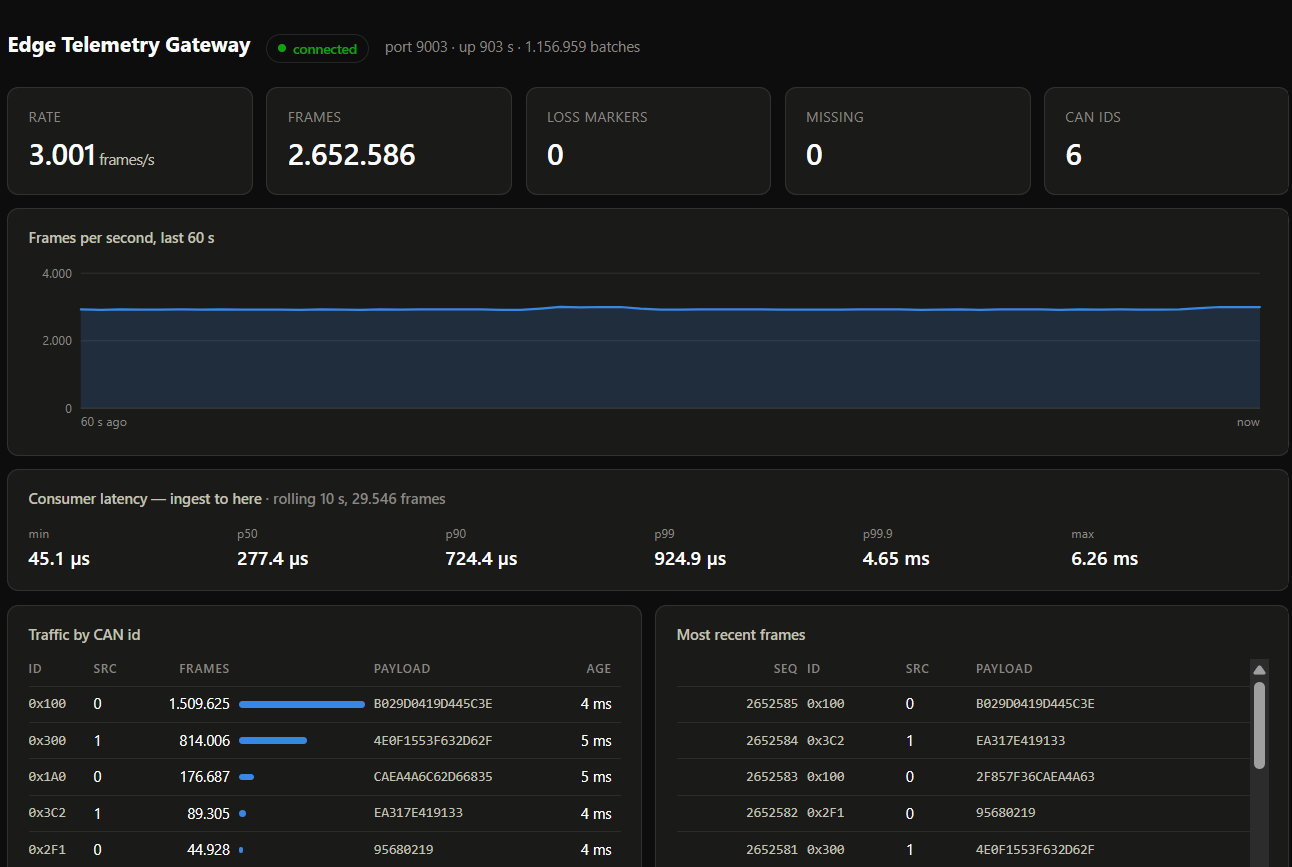
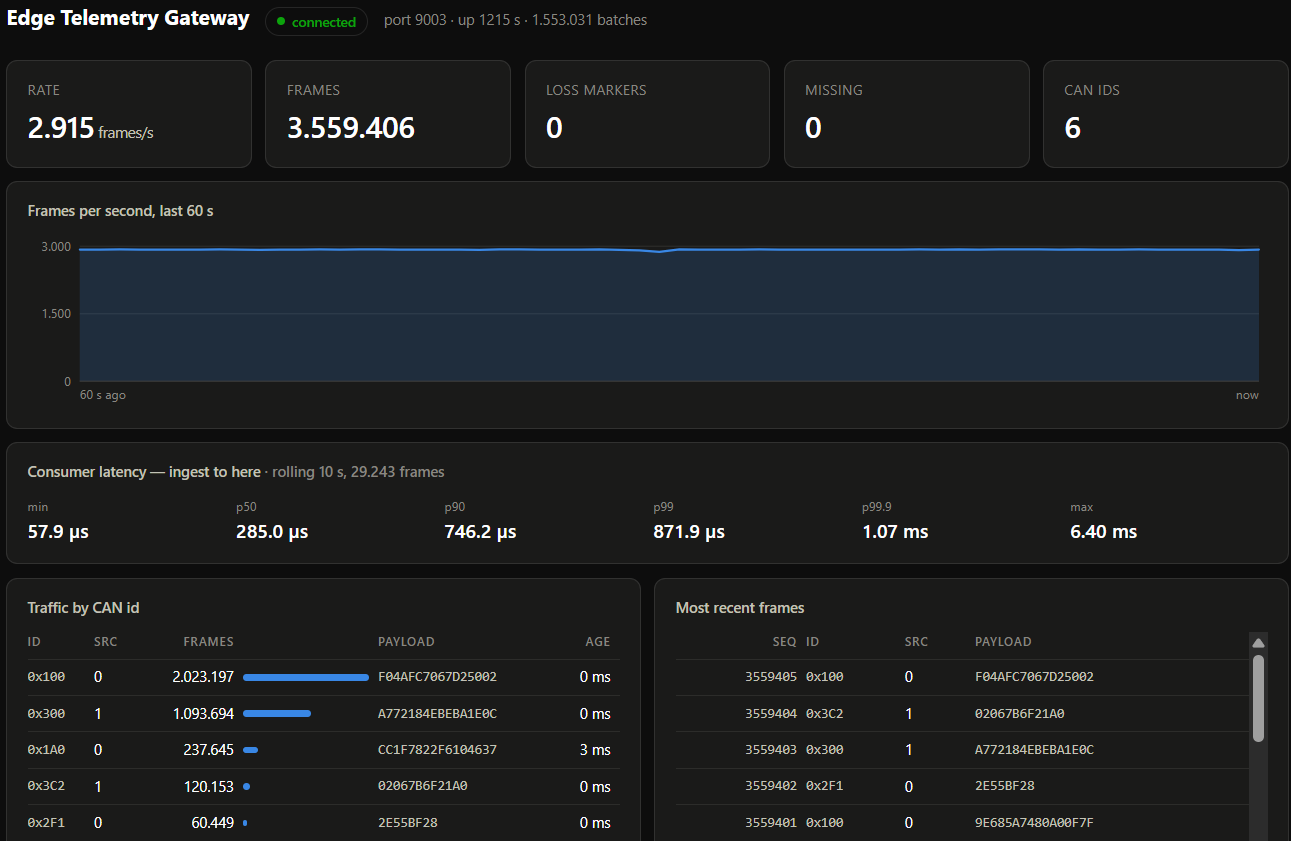
Replace the live-view screenshot taken before the view was fixed
The old capture showed p99.9 of 4.65 ms on its latency card. That figure was
the view sorting its rolling window inside the lock the frame loop needs, twice
a second for every open browser -- the same mistake as the probe's, bounded
rather than growing. results/ documents it as such, so the picture was
asserting a number the text next to it retracts.

The new capture reads 1.07 ms at p99.9 from the same pipeline under the same
load. Caption updated with it: twenty minutes and 3.56 million frames rather
than fifteen and 2.65, because a caption that does not match its own screenshot
is the same defect in smaller print.

diff --git a/README.md b/README.md
@@ -44,8 +44,8 @@ minute, per-CAN-id traffic, sequence gaps, and the most recent frames.
 
 ![The live view: 3001 frames/s from two virtual CAN buses, six ids, no loss](docs/images/live-view.png)
 
-Above is a fifteen-minute run on the Raspberry Pi 3 B+: two `vcan` interfaces
-driven by `cangen` at six different periods, 2.65 million frames delivered to
+Above is a twenty-minute run on the Raspberry Pi 3 B+: two `vcan` interfaces
+driven by `cangen` at six different periods, 3.56 million frames delivered to
 three consumers with no loss markers and nothing missing. The `src` column is
 the part worth looking at — ids from bus 0 and bus 1 interleaved under one
 unbroken sequence, which is the whole reason the ring accepts several producers.
